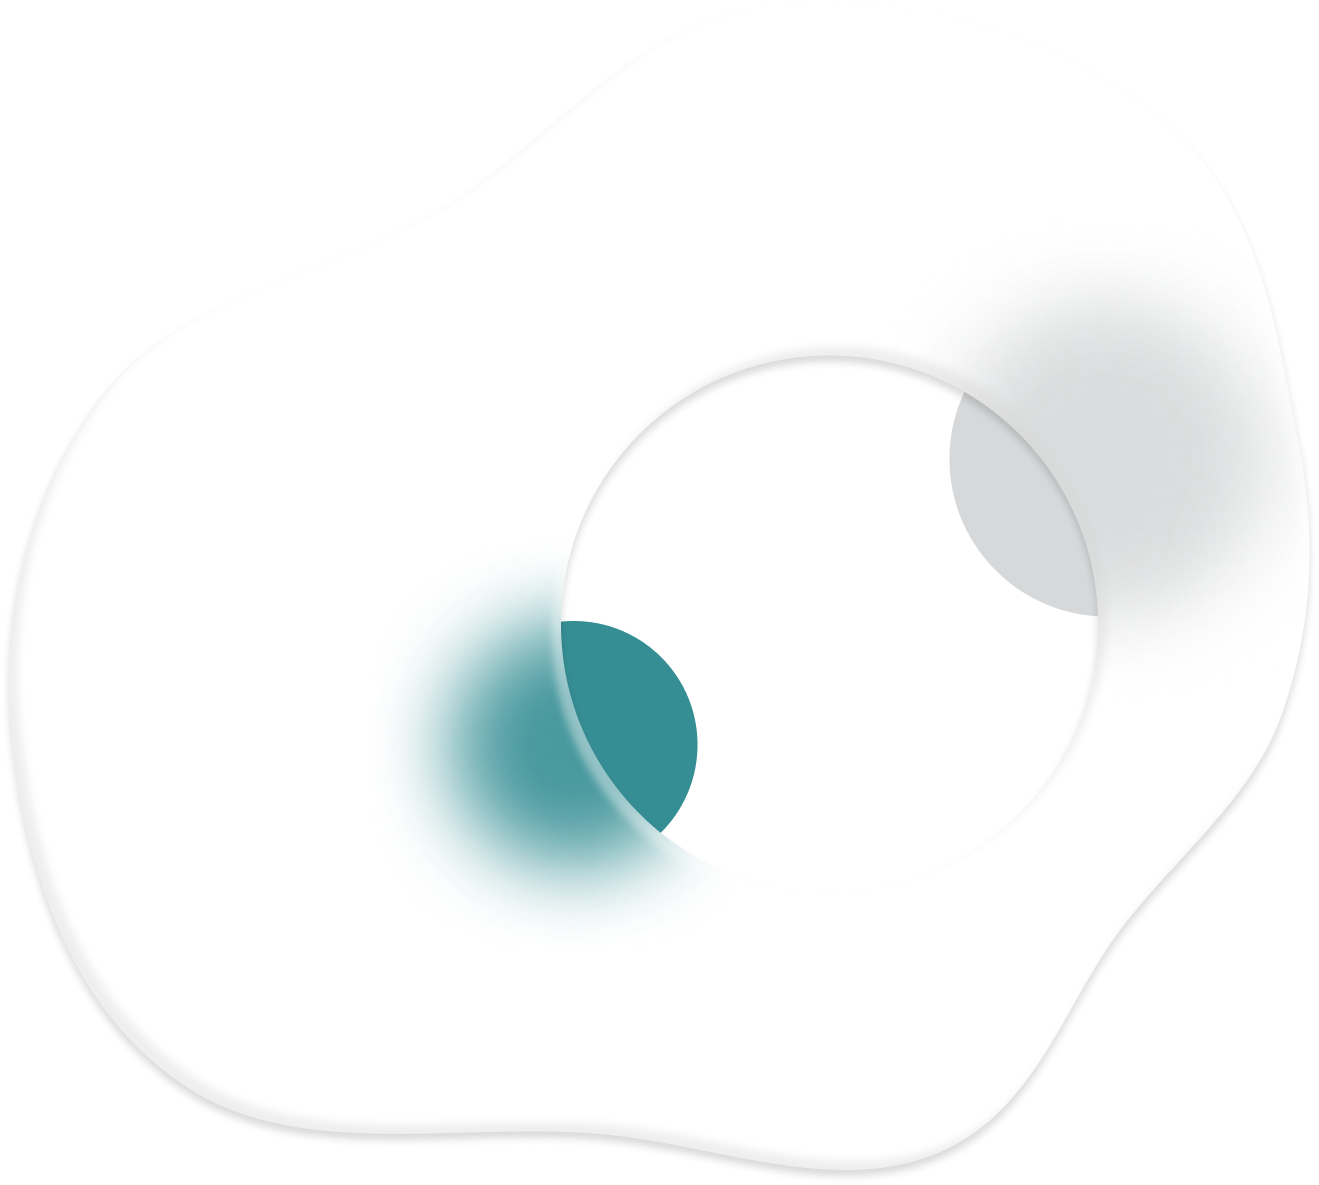
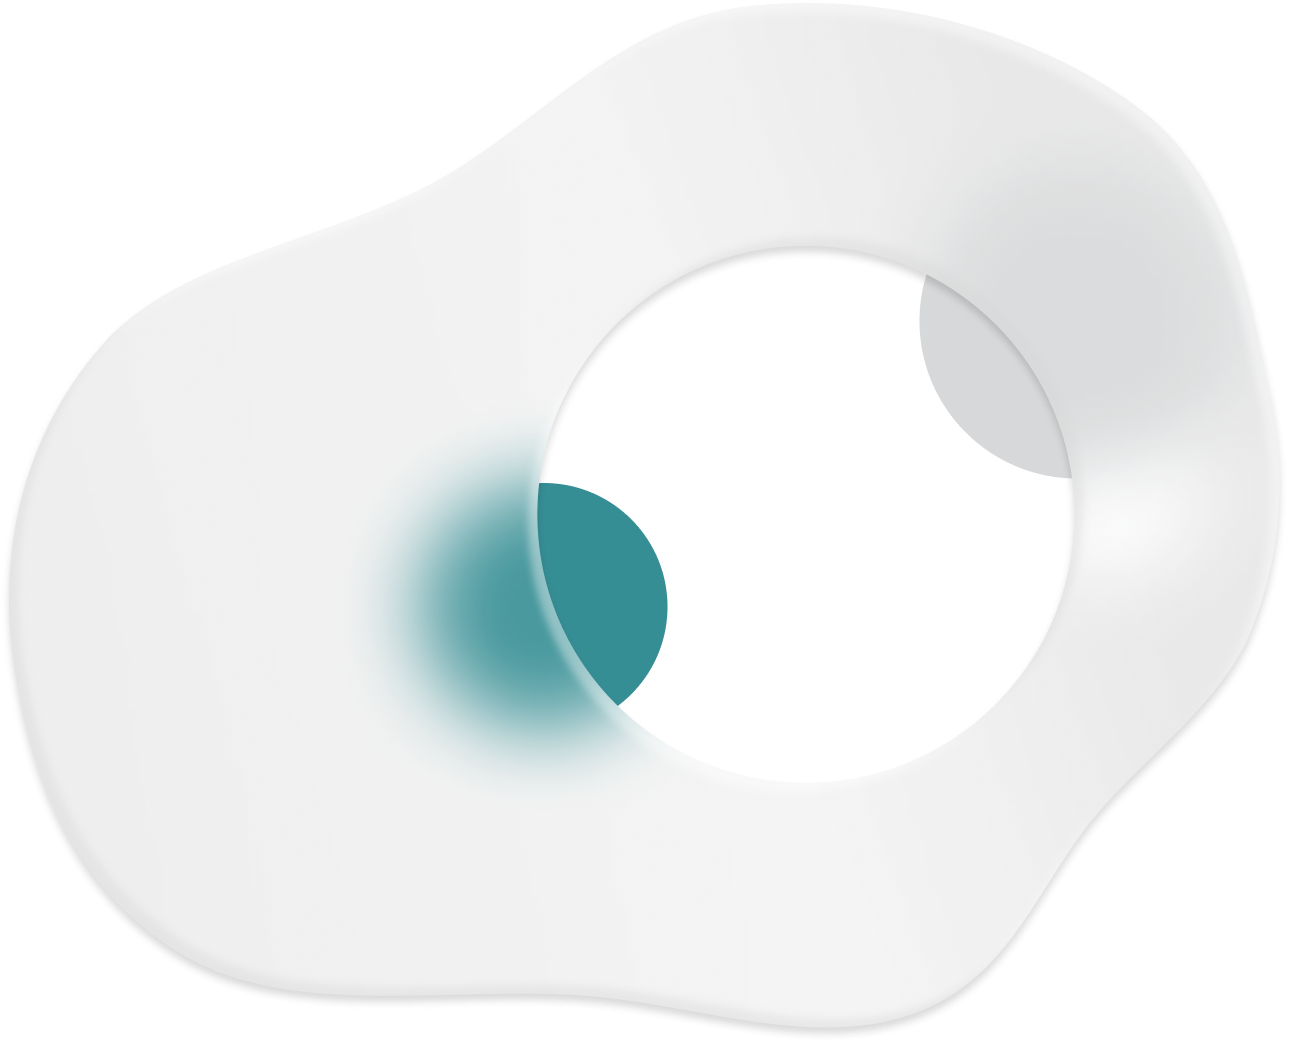
7/4 scroll okay

diff --git a/pages/index.js b/pages/index.js
@@ -22,14 +22,13 @@ export default function Home({ works }) {
 			if (page >= 0 && page <= elements.length - 1) {
 				if (e.deltaY > 0) {
 					setHeight(page < elements.length - 1 ? height + elements[page].offsetHeight : height);
-					console.log(elements[page].offsetHeight);
 					setPage(page < elements.length - 1 ? page + 1 : elements.length - 1);
 				} else if (e.deltaY < 0) {
 					setHeight(height > 0 && height - elements[page - 1].offsetHeight);
 					setPage(page > 0 ? page - 1 : 0);
 				}
+				setScrolled(true);
 			}
-			setScrolled(true);
 		};
 
 		if (!scrolled) {
@@ -70,17 +69,18 @@ export default function Home({ works }) {
 	
 	useEffect(() => {
 		const elements = document.querySelectorAll(".home > section");
-		
 		// setHeight(!isUp ? height + elements[page].offsetHeight : height - elements[page+1].offsetHeight);
 		elements.forEach((item, idx) => {
 			// item.style.transform = `translateY(-${page*100}vh)`;
 
 			if (page === idx) {
 				setTimeout(() => {
-					item.style.transform = `translateY(-${height}px)`;
+					// item.style.transform = `translateY(-${height}px)`;
+					item.style.transform = `translateY(-${page*200}vh)`;
 				}, 600);
 			} else {
-				item.style.transform = `translateY(-${height}px)`;
+				// item.style.transform = `translateY(-${height}px)`;
+				item.style.transform = `translateY(-${page*200}vh)`;
 			}
 		});
 
@@ -88,24 +88,22 @@ export default function Home({ works }) {
 
 	return (
 		<div className="home">
+			{page !== 0 && <Logo />}
 			<section id="hero" className="relative flex justify-center items-center">
 				<Egg bgImage={hero} centerImage={logo} className="hero" />
 			</section>
-
+			<div className="empty-div"></div>
 			<section id="works" className="relative">
-				<Logo />
 				<section className="carousel-section mx-auto">
 					<Carousel works={works} />
 				</section>
 			</section>
-
+			<div className="empty-div"></div>
 			<section id="about" className="relative flex justify-center items-center">
-				<Logo />
 				<Egg bgImage={bgAbout} className="about" text="About me" />
 			</section>
-
+			<div className="empty-div"></div>
 			<section id="footer" className="relative flex justify-center items-center">
-				<Logo />
 				<Egg bgImage={bgChat} className="footer" text="footer" />
 			</section>
 		</div>

diff --git a/styles/style.scss b/styles/style.scss
@@ -112,9 +112,13 @@ ul {
 // Home Page Starts
 .home {
 
+	.empty-div {
+		width: 100vw;
+		height: 100vh;
+	}
 	section {
 		max-width: 100vw;
-		// height: 100vh;
+		height: 100vh;
 		// overflow: hidden;
 		transition: 0.8s all cubic-bezier(.86, .01, .38, .99);
 
@@ -128,25 +132,35 @@ ul {
 	
 		.hero, .about, .footer {
 			height: auto;
+			
 		}
 
 		.hero {
+			max-width: 1115.77px;
 			width: 87vw;
+			// margin-top: -9.7vh;
 		}
 
 		.about {
-			width: 68.2vw;
-			margin-right: 17.43vw;
-			margin-bottom: 3.7vw;
+			max-width: 847px;
+			width: 66.17vw;
+			margin-right: 16.7vw;
+			// width: 68.2vw;
+			// margin-right: 17.43vw;
+			// margin-bottom: 3.7vw;
 		}
 	
 		.footer {
-			width: 91.7vw;
-			margin-left: 3.21vw;
+			max-width: 814.64px;
+			width: 65.7vw;
+			margin-bottom: 0.5vh;
+			// margin-left: 3.21vw;
 		}
 		// Background
 		
 		.egg-center {
+			max-width: 317px !important;
+			max-height: 317px !important;
 			width: 25vw !important;
 			height: 25vw !important;
 			box-shadow: 0px 4px 4px rgba(0, 0, 0, 0.25), inset 3.50667px -3.50667px 3.50667px rgba(182, 182, 182, 0.4), inset -3.50667px 3.50667px 3.50667px rgba(255, 255, 255, 0.4);
@@ -157,6 +171,11 @@ ul {
 	
 			.egg-center-text {
 				transform: translateZ(60px);
+				max-width: 209px !important;
+				min-width: 0 !important;
+				min-height: 0 !important;
+				width: 100% !important;
+				height: auto !important;
 			}
 	
 			h1 {
@@ -272,7 +291,15 @@ ul {
 	// Carousel
 }
 
-
+@media only screen and (min-width: 1280px) {
+	.home {
+		section {
+			.about {
+				margin-right: 208px;
+			}
+		}
+	}
+}
 // Home Page Ends
 
 

diff --git a/styles/style.css b/styles/style.css
@@ -94,26 +94,35 @@ ul {
   text-shadow: 0px 4px 4px rgba(0, 0, 0, 0.25);
 }
 
+.home .empty-div {
+  width: 100vw;
+  height: 100vh;
+}
 .home section {
   max-width: 100vw;
+  height: 100vh;
   transition: 0.8s all cubic-bezier(0.86, 0.01, 0.38, 0.99);
 }
 .home section .hero, .home section .about, .home section .footer {
   height: auto;
 }
 .home section .hero {
+  max-width: 1115.77px;
   width: 87vw;
 }
 .home section .about {
-  width: 68.2vw;
-  margin-right: 17.43vw;
-  margin-bottom: 3.7vw;
+  max-width: 847px;
+  width: 66.17vw;
+  margin-right: 16.7vw;
 }
 .home section .footer {
-  width: 91.7vw;
-  margin-left: 3.21vw;
+  max-width: 814.64px;
+  width: 65.7vw;
+  margin-bottom: 0.5vh;
 }
 .home section .egg-center {
+  max-width: 317px !important;
+  max-height: 317px !important;
   width: 25vw !important;
   height: 25vw !important;
   box-shadow: 0px 4px 4px rgba(0, 0, 0, 0.25), inset 3.50667px -3.50667px 3.50667px rgba(182, 182, 182, 0.4), inset -3.50667px 3.50667px 3.50667px rgba(255, 255, 255, 0.4);
@@ -124,6 +133,11 @@ ul {
 }
 .home section .egg-center .egg-center-text {
   transform: translateZ(60px);
+  max-width: 209px !important;
+  min-width: 0 !important;
+  min-height: 0 !important;
+  width: 100% !important;
+  height: auto !important;
 }
 .home section .egg-center h1 {
   font-weight: 800;
@@ -217,6 +231,11 @@ ul {
   border-radius: 10px;
 }
 
+@media only screen and (min-width: 1280px) {
+  .home section .about {
+    margin-right: 208px;
+  }
+}
 .templates h1 {
   margin-bottom: 20px;
 }

diff --git a/components/HomePageEgg.js b/components/HomePageEgg.js
@@ -34,7 +34,7 @@ function Egg({ bgImage, centerImage = "", text = "", className }) {
 
 	return (
 		<>
-			<div className={`relative z-10 egg-bg ${className}`} >
+			<div className={`absolute z-10 egg-bg ${className}`} >
 				<Image src={bgImage} alt={bgImage}
 					// placeholder="blur"
 					// blurDataURL={bgImage}
@@ -49,13 +49,13 @@ function Egg({ bgImage, centerImage = "", text = "", className }) {
 			}
 
 			{/* https://www.npmjs.com/package/react-parallax-tilt */}
-			{/* <Tilt className={`z-20 ${text !== "footer" && "egg-hover"} egg-center flex justify-center items-center`}
+			<Tilt className={`z-20 ${text !== "footer" && "egg-hover"} egg-center flex justify-center items-center`}
 				perspective={550}>
 				{centerImage && <Image src={centerImage} alt={centerImage}
 					className="egg-center-text"
 				/>}
 				{text === "footer" ? <Footer /> : <h1>{text}</h1>}
-			</Tilt> */}
+			</Tilt>
 
 			{/* <div className={`z-20 egg-${className} flex justify-center items-center`}></div> */}
 		</>

diff --git a/components/Logo.js b/components/Logo.js
@@ -3,7 +3,7 @@ import logoSm from "../public/image/home-page/logo-small.png";
 
 function Logo() {
 	return (
-		<div className="absolute left-8 top-5 z-20 cursor-pointer">
+		<div className="absolute left-6 top-3.5 z-20 cursor-pointer">
 			<Image src={logoSm} alt="logo" />
 		</div>
 	);
